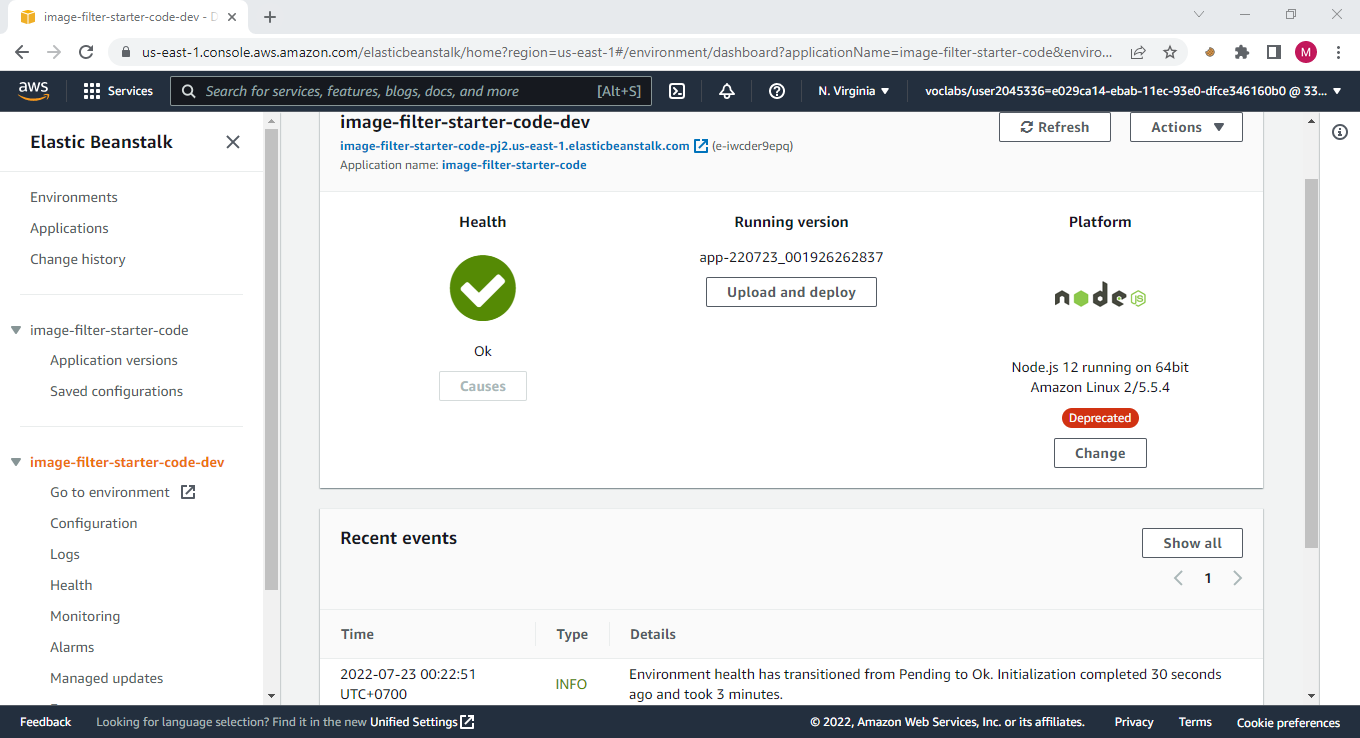
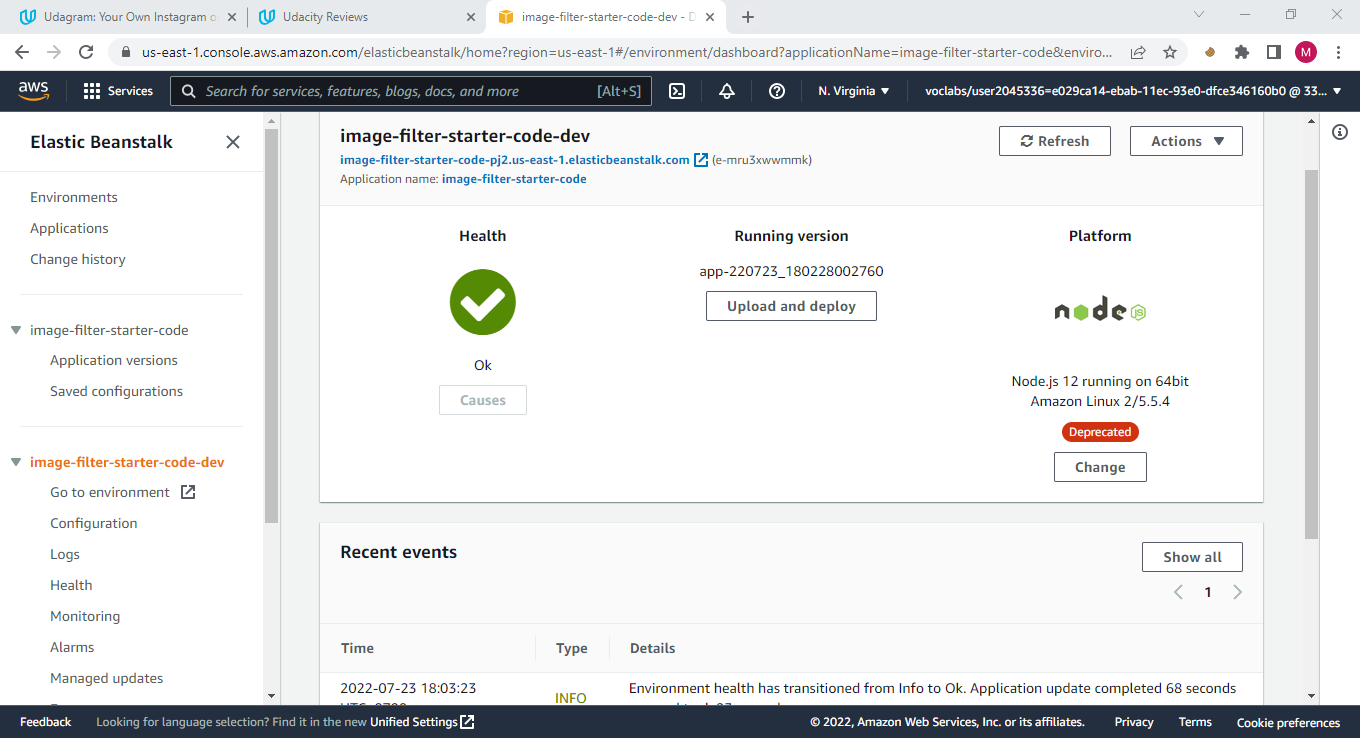
update src for load image

diff --git a/src/util/util.ts b/src/util/util.ts
@@ -1,6 +1,6 @@
 import fs from "fs";
-import Jimp = require("jimp");
-
+import axios from "axios"
+import Jimp from 'jimp';
 // filterImageFromURL
 // helper function to download, filter, and save the filtered image locally
 // returns the absolute path to the local image
@@ -10,19 +10,21 @@ import Jimp = require("jimp");
 //    an absolute path to a filtered image locally saved file
 export async function filterImageFromURL(inputURL: string): Promise<string> {
   return new Promise(async (resolve, reject) => {
+
     try {
-      const photo = await Jimp.read(inputURL);
       const outpath =
         "/tmp/filtered." + Math.floor(Math.random() * 2000) + ".jpg";
+      const buffers = (await axios({ url: inputURL, responseType: "arraybuffer" })).data as Buffer;
+      const photo = await Jimp.read(buffers);
       await photo
-        .resize(256, 256) // resize
+        //.resize(256, 256) // resize
         .quality(60) // set JPEG quality
-        .greyscale() // set greyscale
+        //.greyscale() // set greyscale
         .write(__dirname + outpath, (img) => {
           resolve(__dirname + outpath);
         });
     } catch (error) {
-      reject(error);
+      reject(error)
     }
   });
 }

diff --git a/src/server.ts b/src/server.ts
@@ -68,9 +68,10 @@ import StatusCodes from 'http-status-codes';
     );
   });
 
+  // check image url
   function isImgUrl(url : any) {
     if(typeof url !== 'string' || !url || url === "") return false;
-    return(url.match(/^http[^\?]*.(jpg|jpeg|png|bmp|tiff|gif)(\?(.*))?$/gmi) != null);
+    return(url.match(/^http[^\?]*.(jpg|jpeg|png|bmp)(\?(.*))?$/gmi) != null);
   }
   //! END @TODO1
   

diff --git a/README.md b/README.md
@@ -50,4 +50,10 @@ Add your own domain name and have it point to the running services (try adding a
 ## Result
 
 ### Access endpoint of elastic beanstalk deployment
-http://image-filter-starter-code-pj2.us-east-1.elasticbeanstalk.com
+http://image-filter-starter-code-pj2.us-east-1.elasticbeanstalk.com/
+
+### Sample image URL
+https://upload.wikimedia.org/wikipedia/commons/b/bd/Golden_tabby_and_white_kitten_n01.jpg
+
+### Test
+http://image-filter-starter-code-pj2.us-east-1.elasticbeanstalk.com/filteredimage?image_url=https://upload.wikimedia.org/wikipedia/commons/b/bd/Golden_tabby_and_white_kitten_n01.jpg
